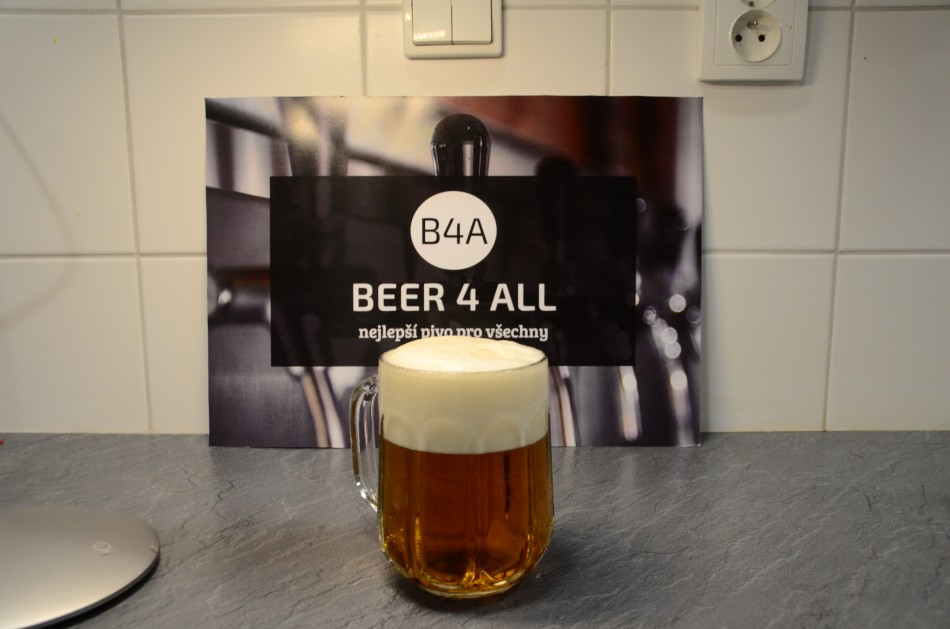
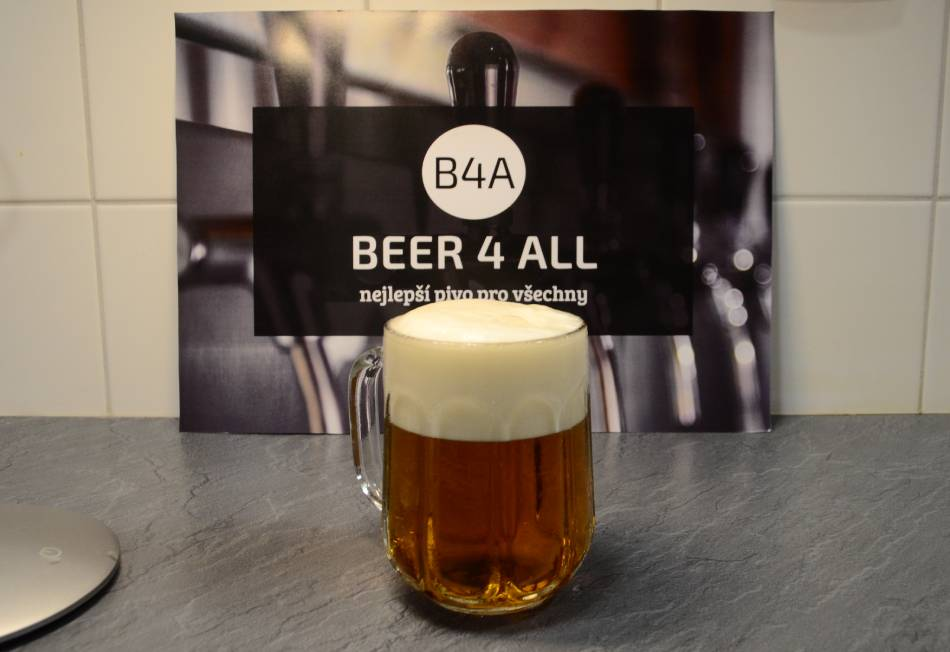
Update texts, photos

diff --git a/pages/index.vue b/pages/index.vue
@@ -34,7 +34,7 @@
   </section>
   <section id="programy">
     <div class="container">
-      <h2>Naše programy</h2>
+      <h2>Naše programy</h2><br>
       <div class="row">
         <div class="col-md-4">
           <nuxt-link to="pan-hospodsky">
@@ -85,7 +85,7 @@
   </section>
   <section id="servis">
     <div class="container">
-      <h2>Poradenství a servis</h2>
+      <h2>Poradenství a servis</h2><br>
       <div class="row">
         <div class="col-md-6">
           <img src="/img/servis.jpg" width="535">
@@ -100,8 +100,12 @@
           </div>
           <br>
           <div class="row">
-            <div class="col-md-12">
+            <div class="col-md-6">
               <a href="/img/projects/003.jpg" data-lightbox="projects-2"><img src="/img/projects/003.jpg" width="250"></a>
+            </div>
+
+            <div class="col-md-6">
+              <a href="/img/projects/004.jpg" data-lightbox="projects-2"><img src="/img/projects/004.jpg" width="250"></a>
             </div>
           </div>
         </div>

diff --git a/pages/pan-hospodsky.vue b/pages/pan-hospodsky.vue
@@ -5,7 +5,7 @@
       <h2>PAN HOSPODSKÝ - domácí profesionál</h2>
       <p class="mainDescription">Budete umět vysanitovat a udržovat svůj výčep, znát teorii výroby piva a budete schopni načepovat to nejlepší pivo.</p>
       <div class="mainInfo">
-          <img src="/img/pan_hospodsky_big.jpg">
+          <img src="/img/pan_hospodsky_big.jpg?v=2">
       </div>
       <div class="row">
         <div class="col-md-9">
@@ -36,6 +36,7 @@
           </div>
         </div>
       </div>
+      <span><b>Kurz je také možné darovat pomocí dárkového poukazu.</b></span>
     </div>
   </div>
 </template>

diff --git a/pages/pan-vycepni.vue b/pages/pan-vycepni.vue
@@ -5,7 +5,7 @@
       <h2>PAN VÝČEPNÍ - pivní znalec</h2>
       <p class="mainDescription">Budete mít znalosti jako ti nejlepší výčepní a dokážete kdykoli načepovat skvělé pivo.</p>
       <div class="mainInfo">
-          <img src="/img/pan_vycepni_big.jpg">
+          <img src="/img/pan_vycepni_big.jpg?v=2">
       </div>
       <div class="row">
         <div class="col-md-9">
@@ -32,6 +32,7 @@
           </div>
         </div>
       </div>
+      <span><b>Kurz je také možné darovat pomocí dárkového poukazu.</b></span>
     </div>
   </div>
 </template>

diff --git a/pages/gastroprovozy.vue b/pages/gastroprovozy.vue
@@ -5,7 +5,7 @@
       <h2>Gastroprovozy, kluby a spolky</h2>
       <p class="mainDescription">Chcete mít v restauraci lepší pivo než konkurence, případně ve vaší klubovně mít skvělé pivo ? Kontaktujte nás.</p>
       <div class="mainInfo">
-          <img src="/img/gastroprovozy_big.jpg">
+          <img src="/img/gastroprovozy_big.jpg?v=2">
       </div>
       <div class="row">
         <div class="col-md-12">

diff --git a/assets/less/about.less b/assets/less/about.less
@@ -13,7 +13,7 @@
   }
   ul {
     position: relative;
-    font-size: 20px;
+    font-size: 18px;
     list-style: none;
 
     li::before {

diff --git a/assets/less/servis.less b/assets/less/servis.less
@@ -13,7 +13,7 @@
   }
   ul {
     position: relative;
-    font-size: 20px;
+    font-size: 18px;
     list-style: none;
 
     li::before {
